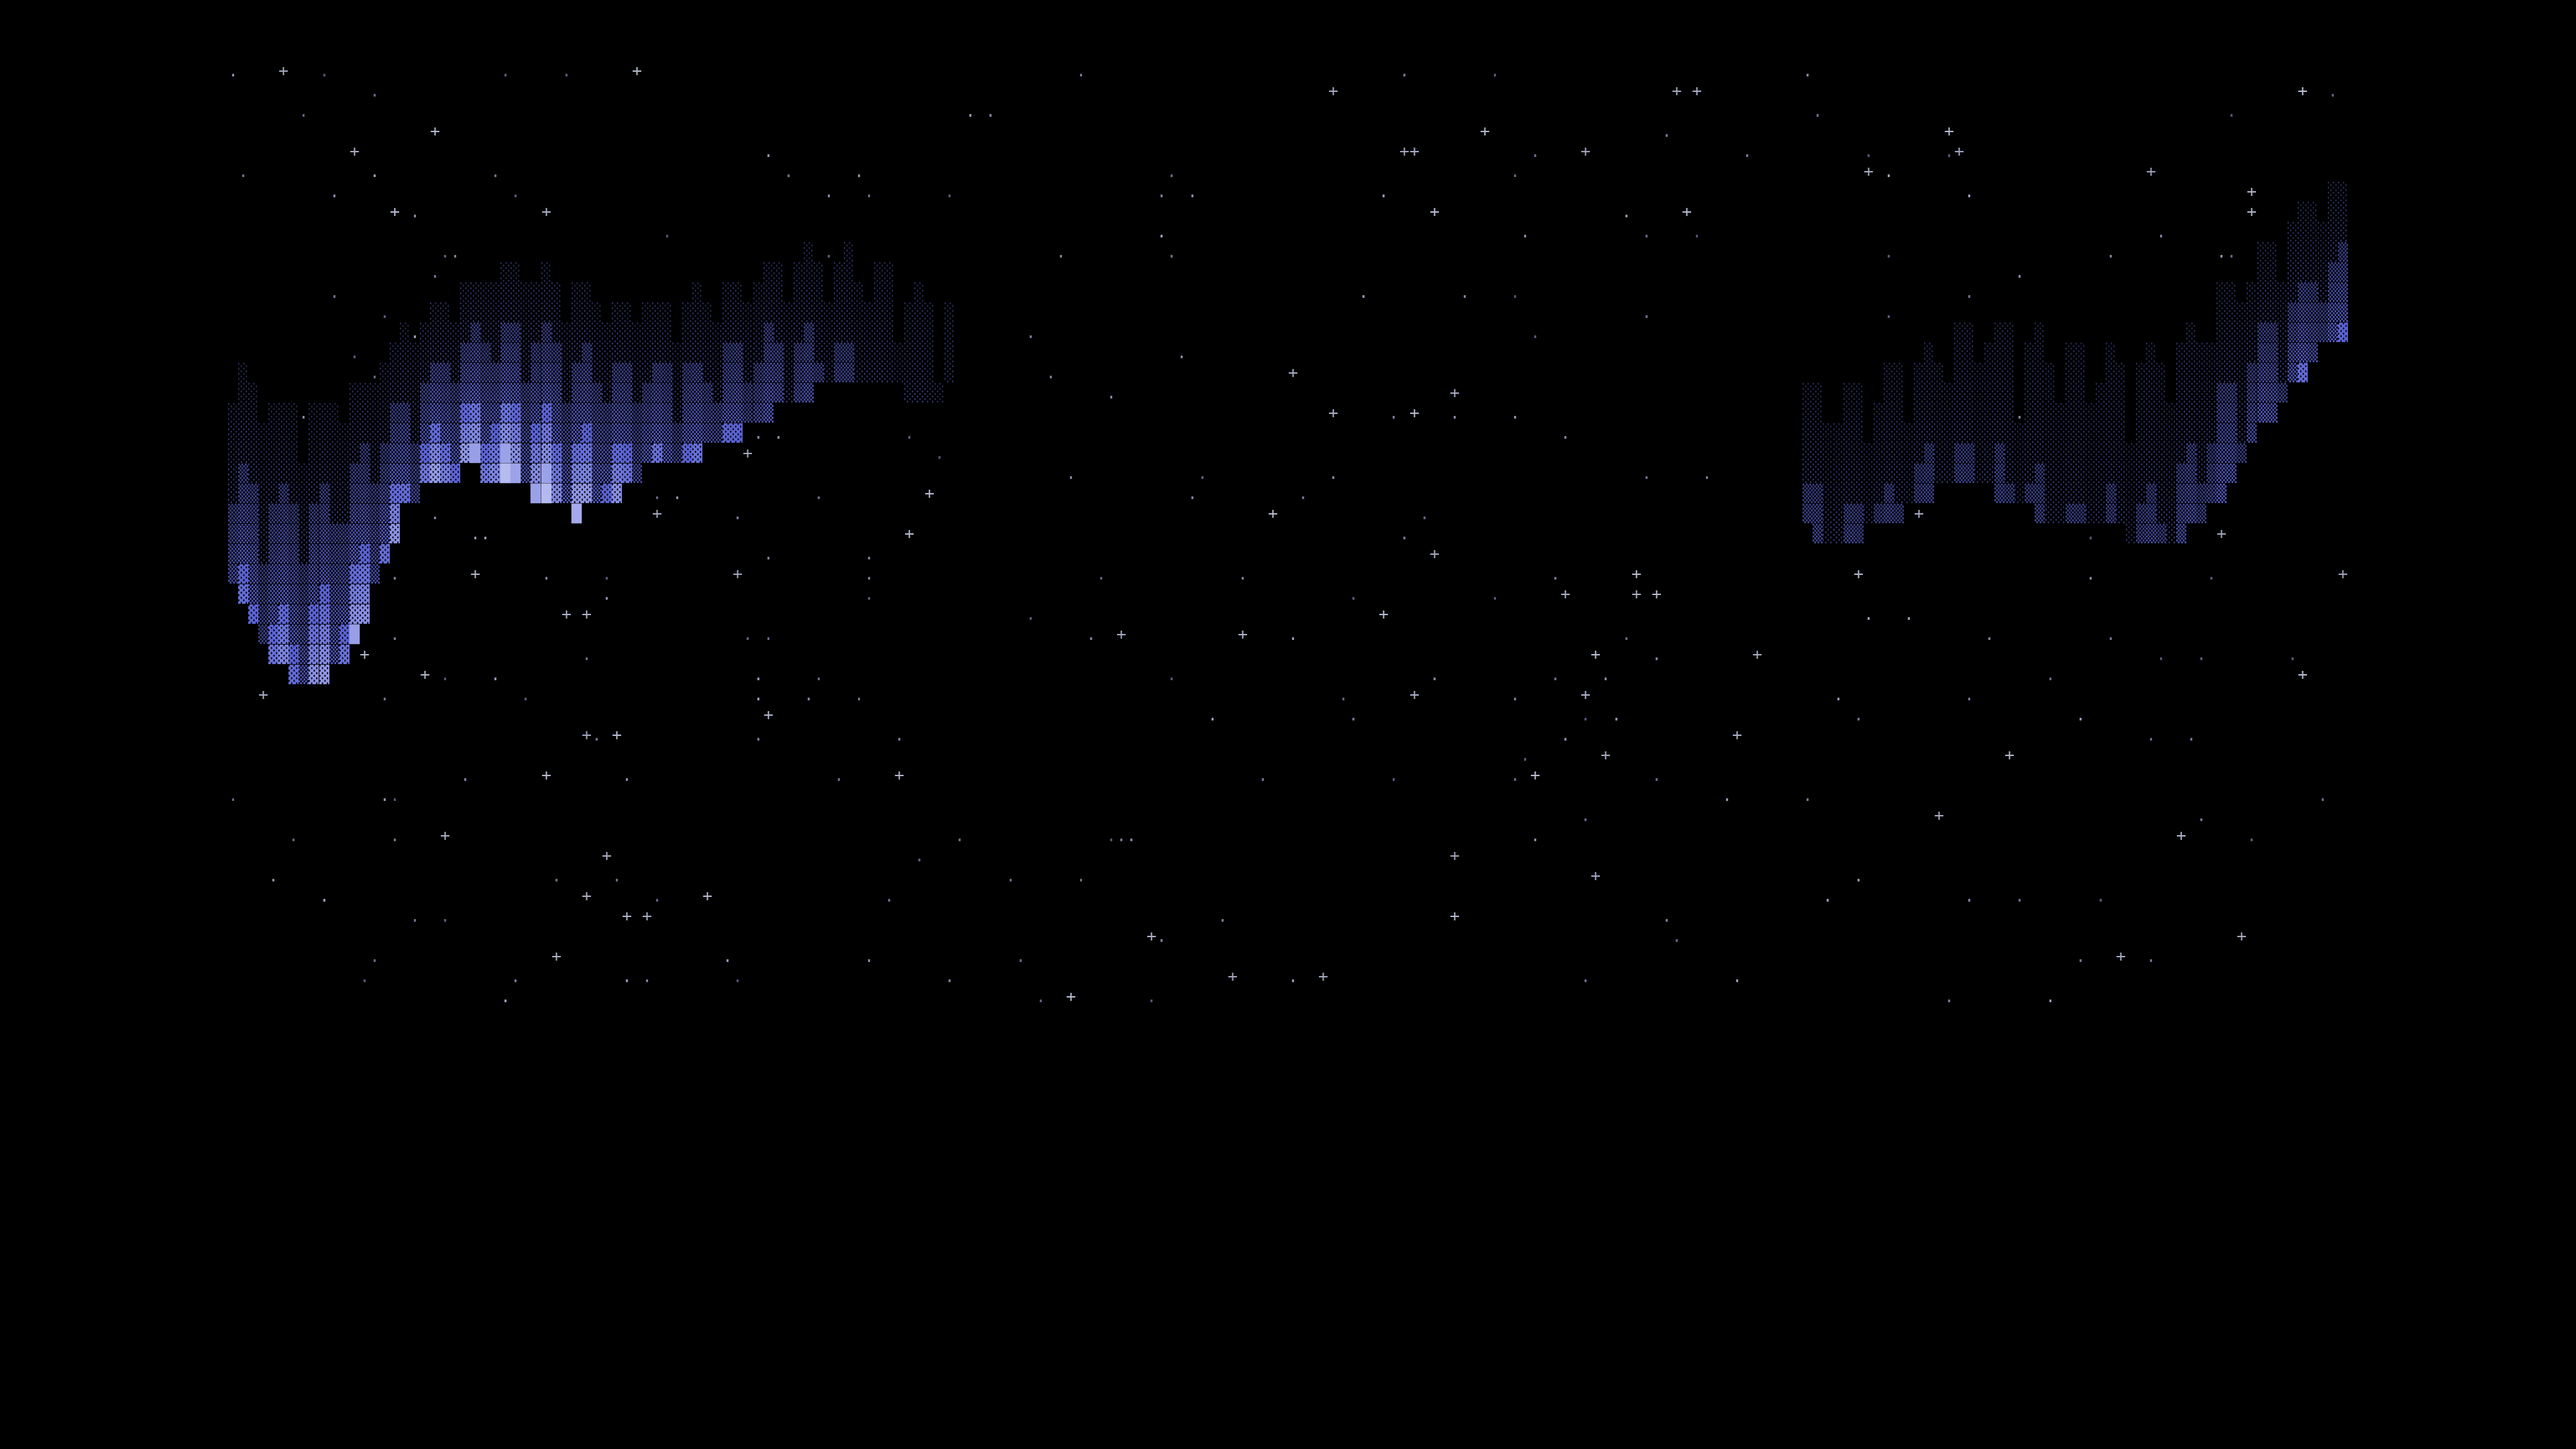
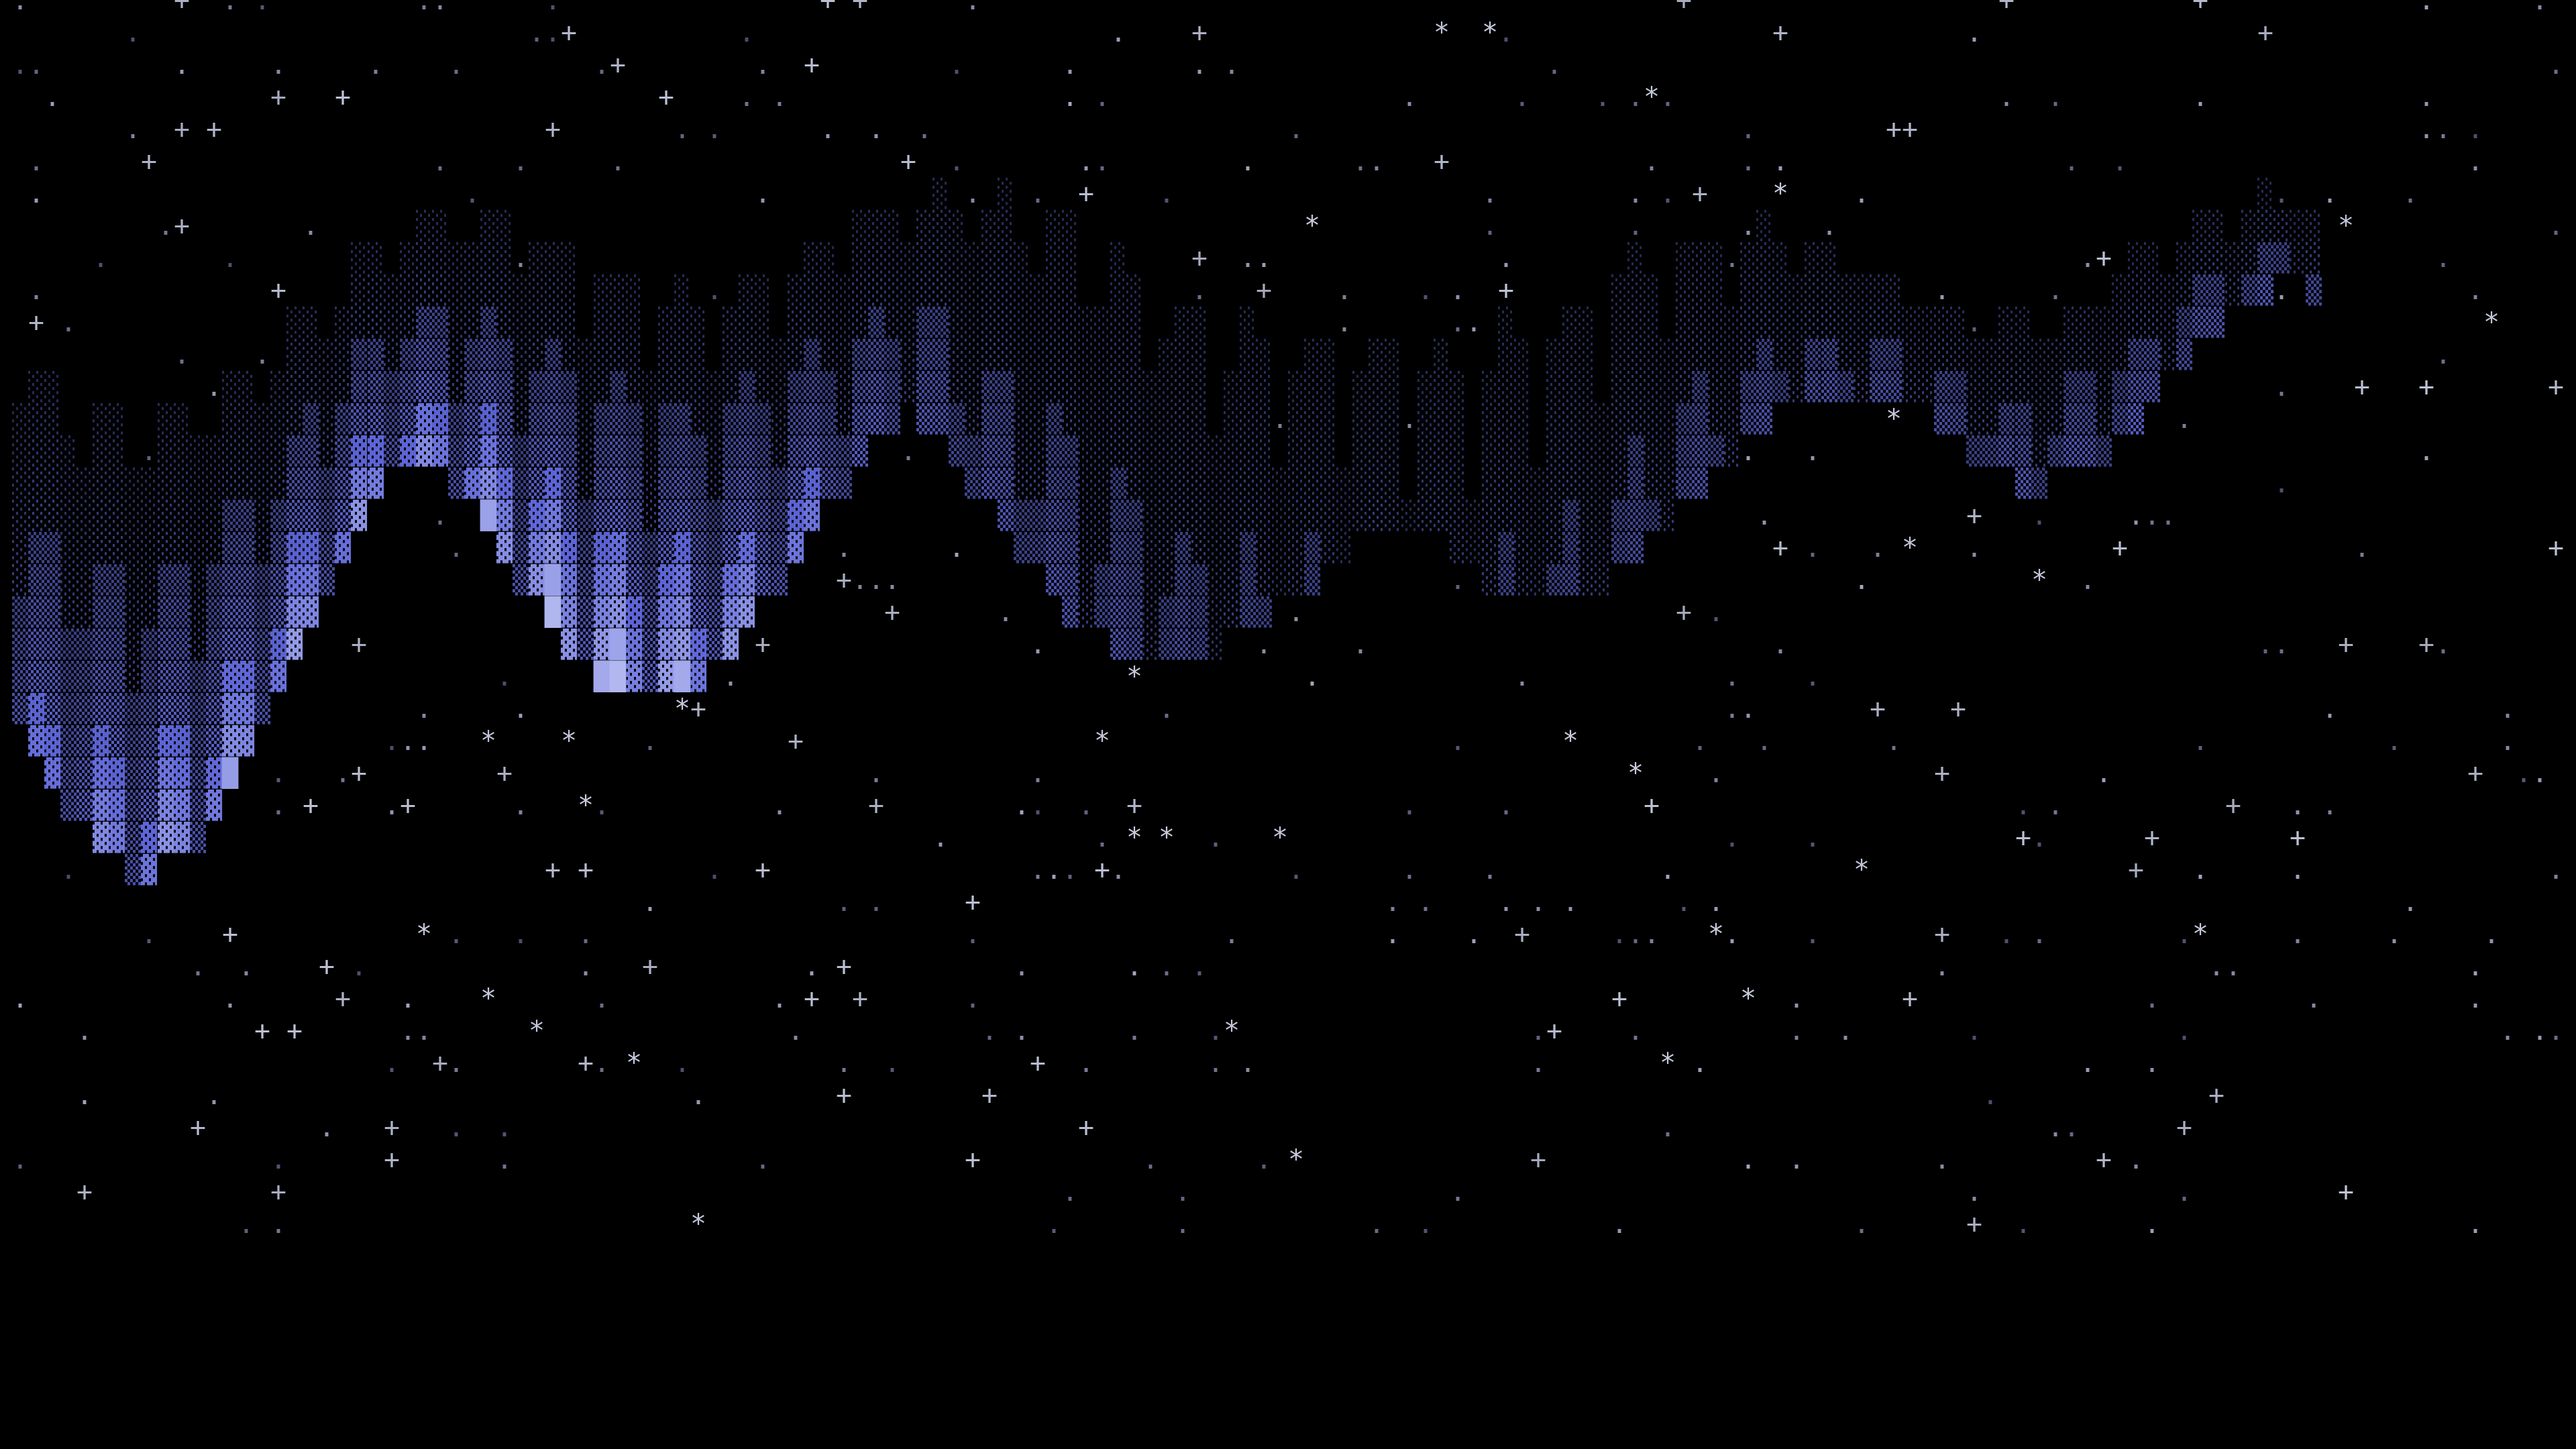
Rework wallpapers to fill 16:9, add theme-set screensaver hook
Grids retuned so the art fills the frame instead of letterboxing, with
larger crisper cells, layered ridge depth, an aurora veil removed, and a
milky band behind the north star. Adds hooks/kaamos-screensaver.hook.

Changed region(s): [[0.0, 0.1241, 0.9375, 0.6204]]

diff --git a/README.md b/README.md
@@ -39,11 +39,18 @@ The shortcut for switching wallpapers is <kbd>Ctrl</kbd>+<kbd>Super</kbd>+<kbd>S
 ## Screensaver
 
 This theme ships the arctic arch `screensaver.txt`. Omarchy branding is global
-rather than per-theme, so apply it once, by hand:
+rather than per-theme, so apply it once by hand:
 
 ```bash
 cp screensaver.txt ~/.config/omarchy/branding/screensaver.txt
 omarchy-launch-screensaver force    # preview it
+```
+
+Or install the bundled hook to do it automatically whenever Kaamos is selected
+(and restore the stock wordmark when you switch away):
+
+```bash
+omarchy hook install theme-set hooks/kaamos-screensaver.hook
 ```
 
 Use `omarchy branding screensaver reset` to restore the stock wordmark.
@@ -51,7 +58,7 @@ Use `omarchy branding screensaver reset` to restore the stock wordmark.
 ## Installation
 
 ```bash
-omarchy theme install https://github.com/yourname/omarchy-kaamos-theme.git
+omarchy theme install https://github.com/jonnevuorela/omarchy-kaamos-theme.git
 ```
 
 ## Usage
